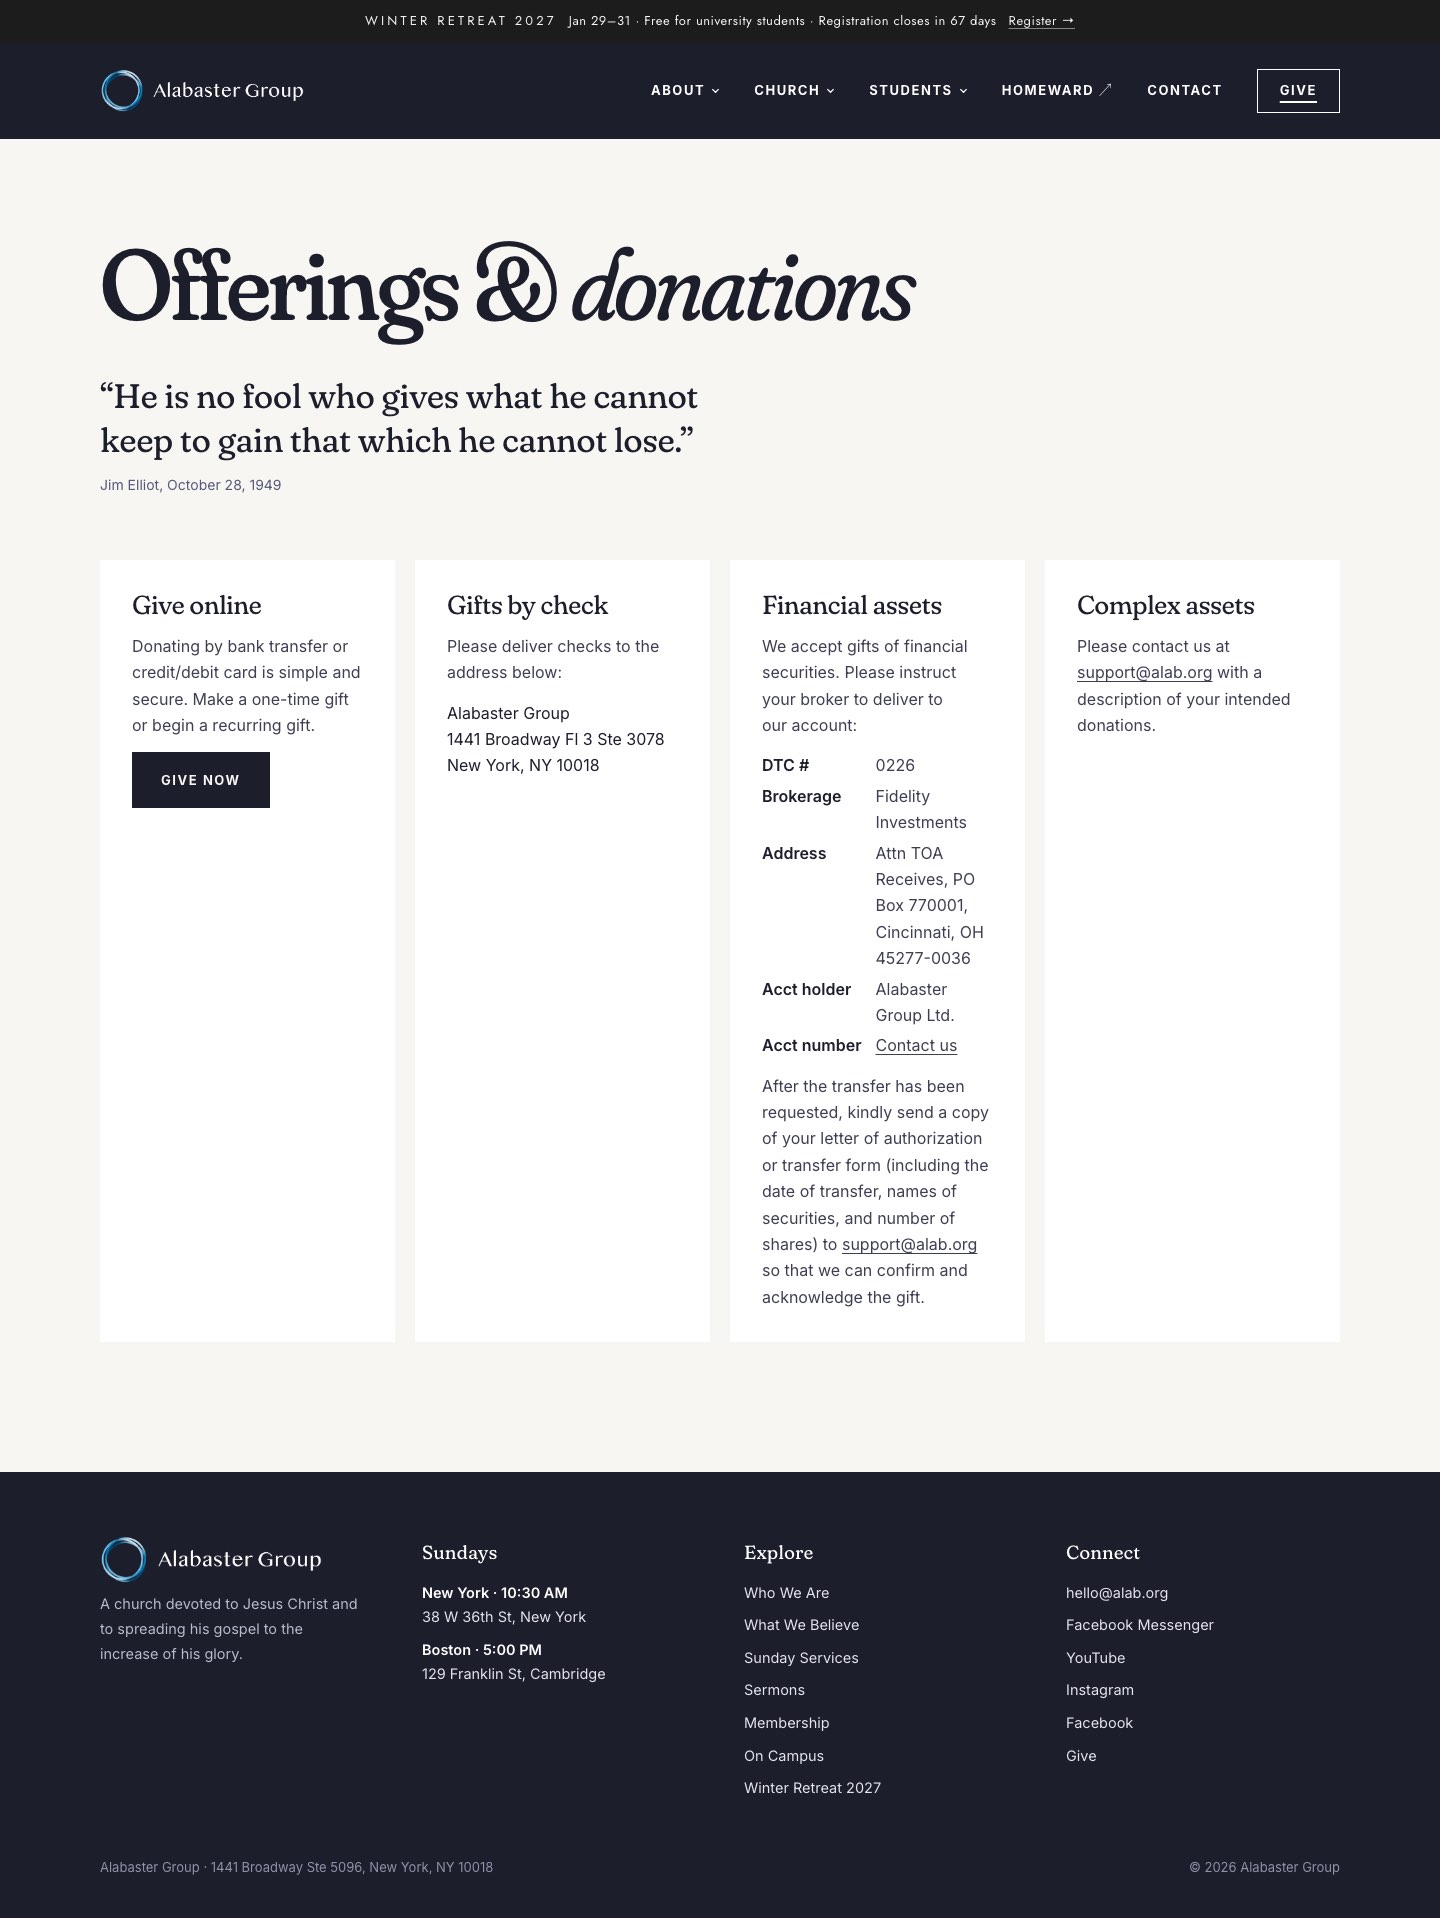
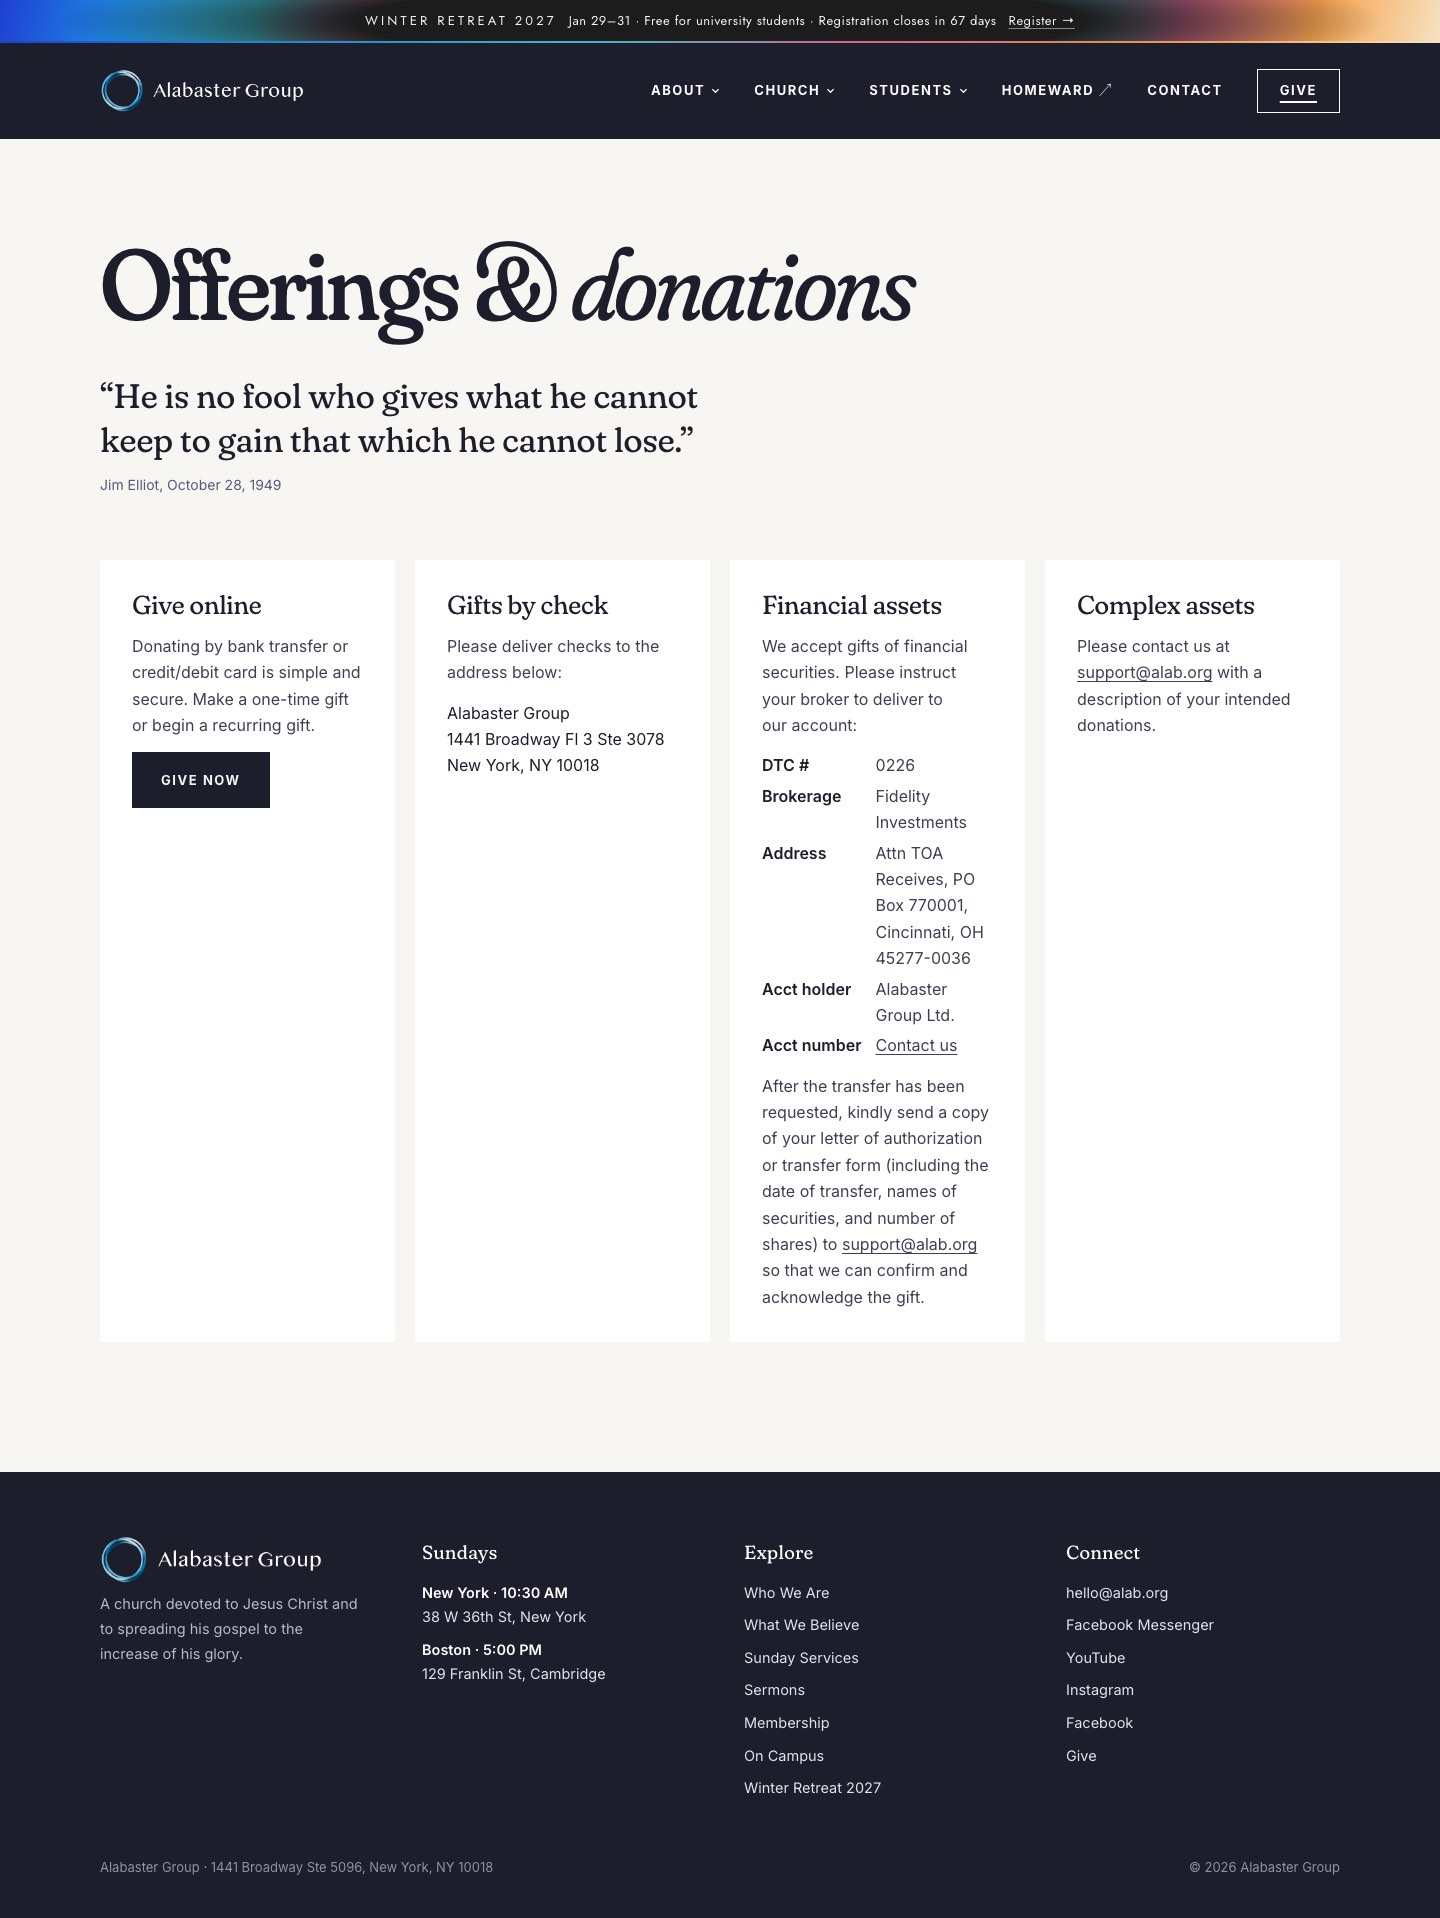
Announcement bar carries the poster's prism light

Changed region(s): [[0.75, 0.0, 1.0, 0.0308], [0.0, 0.0, 0.25, 0.0308]]

diff --git a/public/css/site.css b/public/css/site.css
@@ -888,3 +888,19 @@ h2 em, h3 em { font-style: normal; }
 }
 [data-retreat="winter"] .retreat-page h2 em, [data-retreat="winter"] .retreat-page h3 em { font-weight: inherit; }
 [data-retreat="winter"] .announce { font-family: var(--retreat-type); font-weight: 400; letter-spacing: 0.04em; }
+
+/* The poster's prism, run through the announcement bar: the light band glows at both ends,
+   the copy sits on charcoal in the middle, and a hairline of the spectrum closes the bar. */
+[data-retreat="winter"] {
+  --prism: #1F3FD1, #1E8FE6, #36D0E0, #F06A9A, #F7A04A, #F4E3C2;
+}
+[data-retreat="winter"] .announce {
+  isolation: isolate; overflow: hidden;
+  background:
+    radial-gradient(ellipse 46% 160% at 50% 50%, var(--retreat-bg) 55%, rgba(27, 28, 28, 0) 100%),
+    linear-gradient(105deg, var(--prism), var(--prism));
+}
+[data-retreat="winter"] .announce::after {
+  content: ''; position: absolute; left: 0; right: 0; bottom: 0; height: 2px; z-index: -1;
+  background: linear-gradient(90deg, var(--prism)); opacity: 0.9;
+}

diff --git a/docs/test-plan/README.md b/docs/test-plan/README.md
@@ -1,6 +1,6 @@
 # Test plan
 
-Generated 2026-11-08 11:23 by `scripts/test_plan.py` from a fresh build.
+Generated 2026-11-08 11:30 by `scripts/test_plan.py` from a fresh build.
 
 ## Automated checks
 
